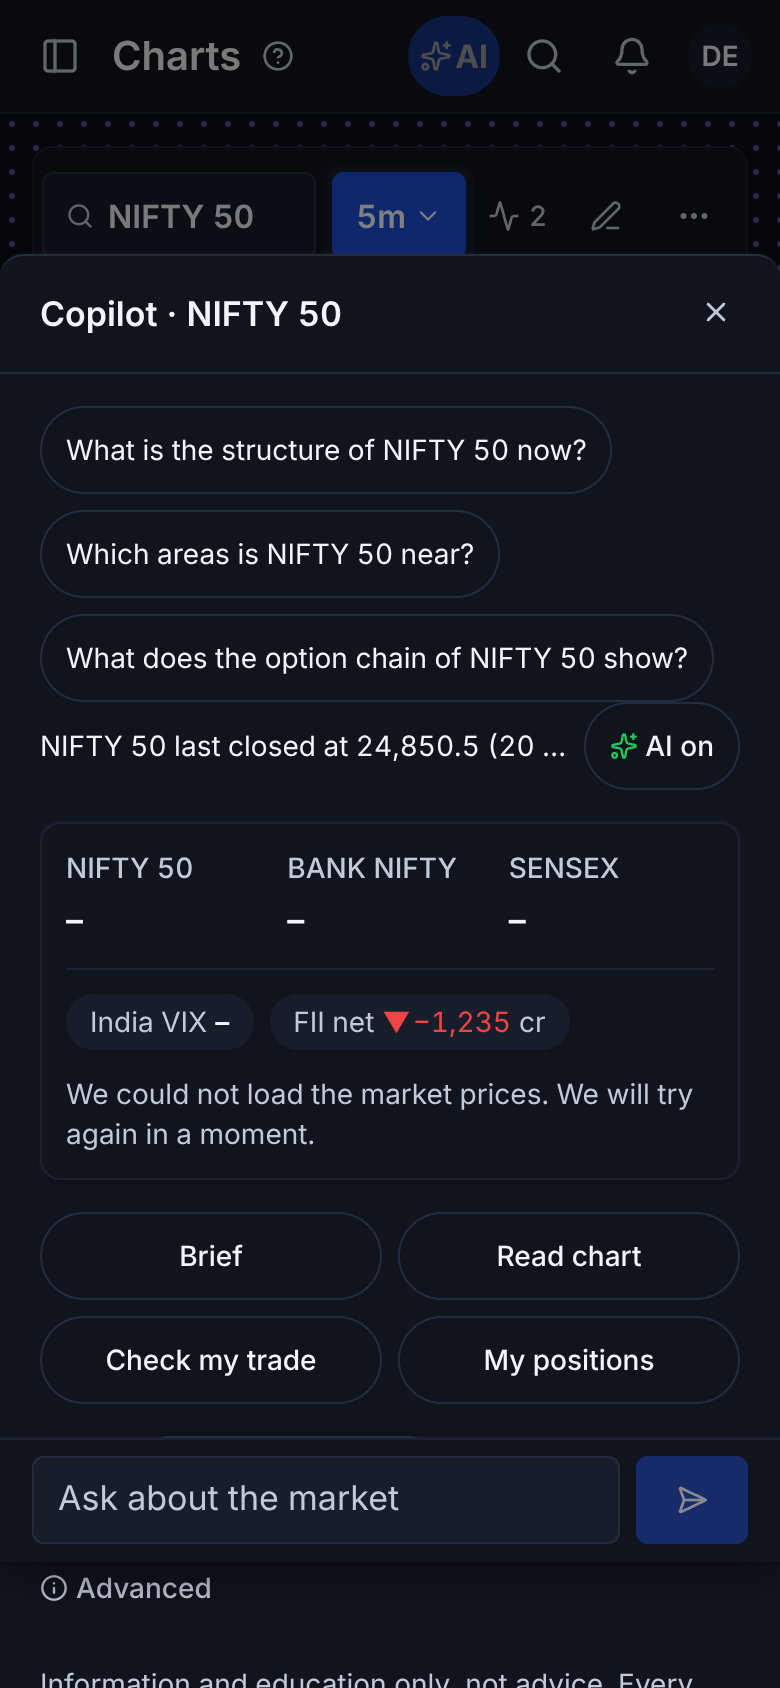
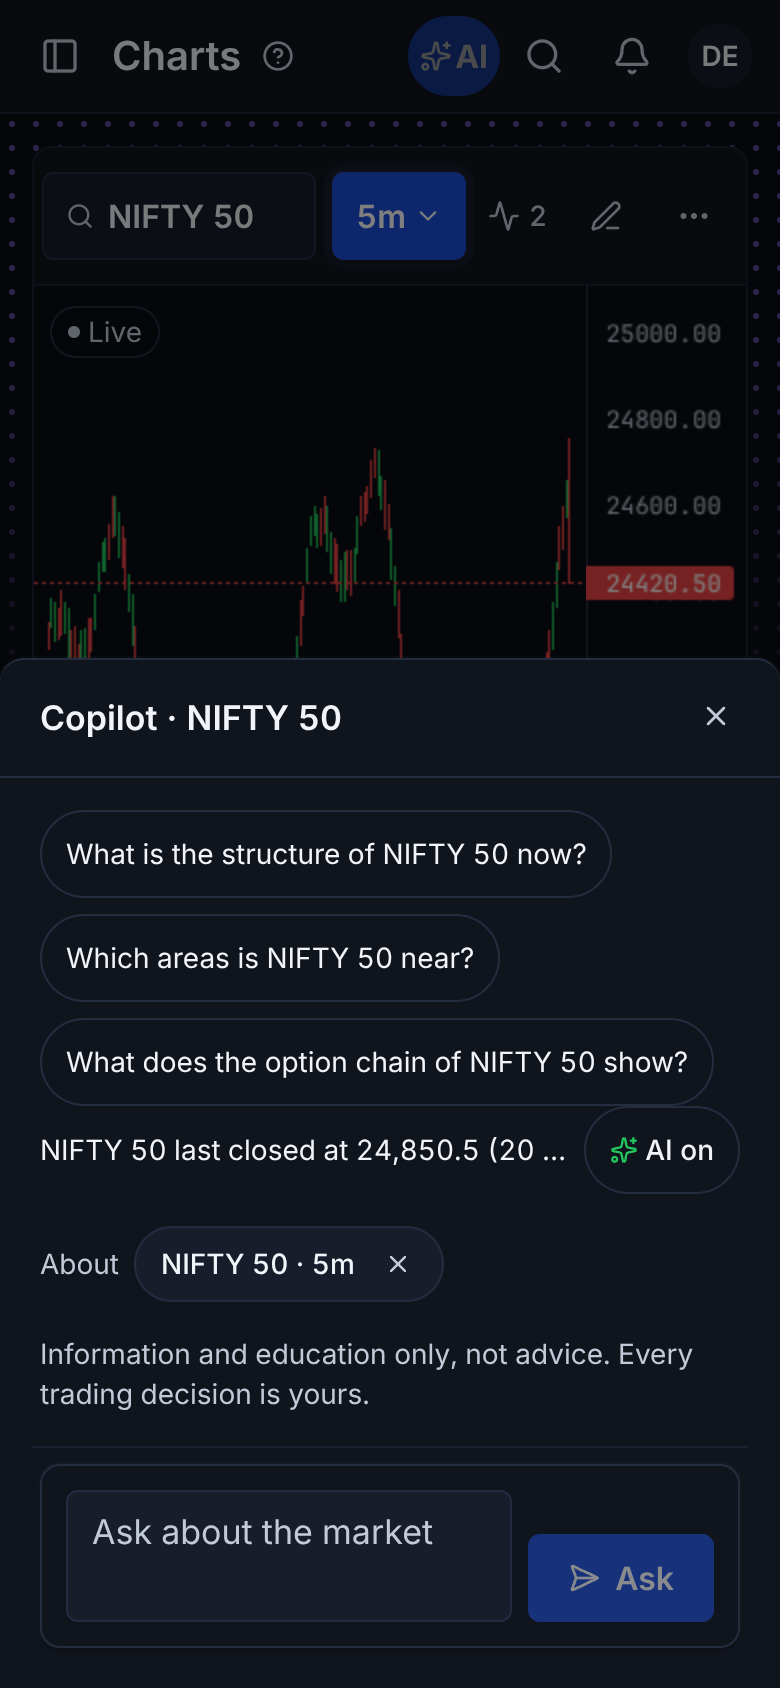
CH-1b (owner 5 Nov): indexed, copyable Copilot answers in a compact, professional chat
- Planner (analyst register): the text is organised in short sections, each opening with a '## <title>' heading
  (Summary first; only sections the tool results support).
- AnswerV2: an answer with 3+ section headings opens with its index (chips that jump to each section); RichText draws a
  section heading with a rule above it and an anchor; Copy copies the whole answer (headings kept, bold marks dropped)
  with its disclaimer.
- The chat bubble's chat is compact: the conversation and the ask box only (no numbers strip, job buttons, Advanced or
  page intro), the ask box kept at the foot of the sheet with the short placeholder.
- Tests: vitest answerIndex (2) + copilot / shell (431); e2e ch1-chat-bubble-v2 (index, 5 headings, Copy) at 390 and
  1440. Proof shots in CH1_PROOF.html. INBOX.

Claude-Session: https://claude.ai/code/session_0111ZseAMRvkKNzt3WVC9Lph

diff --git a/frontend/src/copilot/chat/CopilotChatV2.tsx b/frontend/src/copilot/chat/CopilotChatV2.tsx
@@ -80,6 +80,9 @@ export interface ChatViewProps {
   onAttach?: (source: ChartSource) => void;
   /** M72 PR-3 (CP-3): what the next question is about ("Ask AI about this"), with a way to drop it. */
   about?: ReactNode;
+  /** CH-1b: the chat bubble's compact chat - the conversation and the ask box only (no numbers strip, job buttons or
+   * Advanced), the ask box kept at the foot of the sheet. */
+  compact?: boolean;
 }
 
 export function Composer({ draft, busy, placement, onDraft, onAsk, placeholder, onAttach }: Pick<ChatViewProps, "draft" | "busy" | "placement" | "onDraft" | "onAsk" | "onAttach"> & { placeholder?: string }) {
@@ -161,14 +164,14 @@ export function NumbersStrip({ strip, home, nowMs }: { strip: Loadable<MarketStr
   );
 }
 
-export function ChatView({ home, homeError, turns, draft, busy, placement, onDraft, onAsk, strip = { status: "loading" }, connect, aiChip, keyOpen = false, onKeyOpen, onAttach, about }: ChatViewProps) {
+export function ChatView({ home, homeError, turns, draft, busy, placement, onDraft, onAsk, strip = { status: "loading" }, connect, aiChip, keyOpen = false, onKeyOpen, onAttach, about, compact = false }: ChatViewProps) {
   const t = useCopilotT();
   const line = marketLineText(home);
   const chips = home ? quickChips(home.jobs) : [];
   const empty = turns.length === 0;
   const aiOff = needsKey(home);
   const composer = <Composer draft={draft} busy={busy} placement={placement} onDraft={onDraft} onAsk={onAsk} onAttach={onAttach}
-    placeholder={placement === "bottom" ? t("chat.placeholderShort") : home?.top_line} />;
+    placeholder={placement === "bottom" || compact ? t("chat.placeholderShort") : home?.top_line} />;
   return (
     <div className="space-y-space-4" data-page="copilot-v2" data-placement={placement}>
       <header className="flex items-center justify-between gap-space-2">
@@ -203,9 +206,9 @@ export function ChatView({ home, homeError, turns, draft, busy, placement, onDra
 
       {aiOff && connect && keyOpen && <div data-connect-slot>{connect}</div>}
 
-      <NumbersStrip strip={strip} home={home} nowMs={Date.now()} />
+      {!compact && <NumbersStrip strip={strip} home={home} nowMs={Date.now()} />}
 
-      {chips.length > 0 && (
+      {!compact && chips.length > 0 && (
         <nav aria-label={t("chat.quick")} data-quick-chips data-tour="copilot-jobs" className="grid grid-cols-2 gap-space-2 sm:flex sm:flex-wrap">
           {chips.map((c) => (
             <button key={c.id} type="button" className={`${CHIP} justify-center font-medium sm:justify-start`} disabled={busy} onClick={() => onAsk(c.question)} data-quick={c.id}>
@@ -216,7 +219,7 @@ export function ChatView({ home, homeError, turns, draft, busy, placement, onDra
       )}
 
       {about}
-      {placement === "inline" && composer}
+      {placement === "inline" && !compact && composer}
 
       {!empty && (
         <ol className="space-y-space-4" aria-live="polite" data-conversation>
@@ -265,7 +268,7 @@ export function ChatView({ home, homeError, turns, draft, busy, placement, onDra
       )}
 
       {/* CU2: every job and the older Copilot pages fold under one closed "Advanced" (nothing removed; each still opens). */}
-      <div data-tour="copilot-more"><Details id="copilot.chat.advanced" label="Advanced">
+      {!compact && <div data-tour="copilot-more"><Details id="copilot.chat.advanced" label="Advanced">
         {home && (
           <section aria-labelledby="copilot-can-do" data-can-do>
             <h2 id="copilot-can-do" className="mb-space-1 font-semibold text-fg-muted">{t("chat.canDo")}</h2>
@@ -294,11 +297,13 @@ export function ChatView({ home, homeError, turns, draft, busy, placement, onDra
             ))}
           </ul>
         </nav>
-      </Details></div>
+      </Details></div>}
 
       <p className="text-t12 text-fg-muted" data-disclaimer>{home?.disclaimer ?? t("chat.disclaimer")}</p>
 
-      {placement === "bottom" && (
+      {compact ? (
+        <div className="sticky bottom-0 z-10 -mx-space-1 border-t border-subtle bg-surface-1 px-space-1 pb-space-1 pt-space-2" data-compact-composer>{composer}</div>
+      ) : placement === "bottom" && (
         <>
           <div aria-hidden className="h-20" />
           {composer}
@@ -343,7 +348,7 @@ export function AboutChip({ ctx, onClear }: { ctx: AskContext; onClear: () => vo
   );
 }
 
-export function CopilotChatV2({ context = null, starters = [] }: { context?: AskContext | null; starters?: readonly string[] }) {
+export function CopilotChatV2({ context = null, starters = [], compact = false }: { context?: AskContext | null; starters?: readonly string[]; compact?: boolean }) {
   const t = useCopilotT();
   // M72 PR-3 (F8): the context the page was opened with rides on every question until the user drops it
   const contextKey = JSON.stringify(context);
@@ -467,7 +472,7 @@ export function CopilotChatV2({ context = null, starters = [] }: { context?: Ask
 
   return (
     <>
-      <PageIntro id="copilot-chat" title={t("chat.introTitle")} lines={[t("chat.intro1"), t("chat.intro2")]} />
+      {!compact && <PageIntro id="copilot-chat" title={t("chat.introTitle")} lines={[t("chat.intro1"), t("chat.intro2")]} />}
       {/* CH-1: the chat bubble's ready questions about the page's symbol, until the first question is asked */}
       {starters.length > 0 && turns.length === 0 && (
         <div className="flex flex-wrap gap-space-2" data-chat-starters>
@@ -477,7 +482,7 @@ export function CopilotChatV2({ context = null, starters = [] }: { context?: Ask
           ))}
         </div>
       )}
-      <ChatView home={home} homeError={homeError} turns={turns} draft={draft} busy={busy} placement={placement} onDraft={setDraft} onAsk={(q) => void ask(q)}
+      <ChatView home={home} homeError={homeError} turns={turns} draft={draft} busy={busy} placement={compact ? "inline" : placement} compact={compact} onDraft={setDraft} onAsk={(q) => void ask(q)}
         strip={strip} keyOpen={keyOpen} onKeyOpen={setKeyOpen} onAttach={canAttach ? (source) => void attachChart(source) : undefined}
         connect={oneKey ? <ConnectAiPanelV2 /> : undefined} aiChip={aiLabel ? <ConnectAiChip label={aiLabel} /> : undefined}
         about={about ? <AboutChip ctx={about} onClear={() => setAbout(null)} /> : undefined} />
@@ -491,9 +496,9 @@ function Waiting() {
   return <p className="text-t20 font-semibold text-fg md:text-t24">{t("chat.topLine")}</p>;
 }
 
-export default function CopilotChatGate({ context = null, starters = [] }: { context?: AskContext | null; starters?: readonly string[] }) {
+export default function CopilotChatGate({ context = null, starters = [], compact = false }: { context?: AskContext | null; starters?: readonly string[]; compact?: boolean }) {
   const t = useCopilotT();
   const { user } = useAuth();
   if (!user) return <p className="text-t14 text-fg-muted">{t("shell.signIn")}</p>;
-  return <FirstUseModal placeholder={<Waiting />}><CopilotChatV2 context={context} starters={starters} /></FirstUseModal>;
+  return <FirstUseModal placeholder={<Waiting />}><CopilotChatV2 context={context} starters={starters} compact={compact} /></FirstUseModal>;
 }

diff --git a/frontend/src/copilot/chat/AnswerV2.tsx b/frontend/src/copilot/chat/AnswerV2.tsx
@@ -1,5 +1,5 @@
-import { CircleHelp, History, LineChart, ListChecks, Sparkles } from "lucide-react";
-import { lazy, Suspense } from "react";
+import { Check, CircleHelp, Copy, History, LineChart, ListChecks, Sparkles } from "lucide-react";
+import { lazy, Suspense, useId, useState } from "react";
 import { InPlaceLink } from "../../inplace/InPlaceLink";
 import { chartTabPath } from "../../shell/shellRoutes";
 import { isTimeframe } from "../../chart/timeframes";
@@ -13,7 +13,7 @@ import {
   type AnswerBlock, type AnswerChip, type AnswerHeadline, type ChatAnswer,
 } from "./model";
 import CostChip from "../components/CostChip";
-import { RichText } from "./RichText";
+import { RichText, headingId } from "./RichText";
 import { DraftCardsV2 } from "./DraftCardV2";
 import { StructureCardV2 } from "./StructureCardV2";
 
@@ -132,8 +132,43 @@ export function HeadlineRow({ h }: { h: AnswerHeadline }) {
  * refusal shows its plain sentence and what to ask instead. Every word and number comes from the server; the page
  * footer carries the one disclaimer (`disclaimer` shows the answer's own line where the card stands alone).
  */
+/** CH-1b: the "## " section headings of an answer's text, in order (its index). */
+export function answerIndex(lines: readonly string[]): string[] {
+  const out: string[] = [];
+  for (const line of lines) {
+    for (const row of line.split("\n")) {
+      const m = /^\s*#{1,3}\s+(.+?)\s*$/.exec(row);
+      if (m) out.push(m[1].replace(/\*\*/g, ""));
+    }
+  }
+  return out;
+}
+
+/** CH-1b: the answer as plain text for Copy - its lines (headings kept as "## "), then the disclaimer. */
+export function answerPlainText(answer: Pick<ChatAnswer, "summary" | "disclaimer">): string {
+  const body = answer.summary.map((l) => l.replace(/\*\*/g, "").trim()).filter(Boolean).join("\n\n");
+  return answer.disclaimer ? `${body}\n\n${answer.disclaimer}` : body;
+}
+
+function CopyAnswer({ text }: { text: string }) {
+  const [done, setDone] = useState<boolean | null>(null);
+  const copy = () => {
+    const clip = typeof navigator !== "undefined" ? navigator.clipboard : undefined;
+    if (!clip) { setDone(false); return; }
+    clip.writeText(text).then(() => setDone(true), () => setDone(false));
+  };
+  return (
+    <button type="button" onClick={copy} data-copy-answer aria-label="Copy this answer"
+      className="inline-flex min-h-11 items-center gap-space-1 rounded-pill border border-border px-space-3 text-t13 font-medium text-fg hover:bg-surface-2 focus-visible:outline-none focus-visible:ring-2 focus-visible:ring-brand md:min-h-9">
+      {done ? <Check size={14} aria-hidden /> : <Copy size={14} aria-hidden />}
+      {done ? "Copied" : done === false ? "Copy not allowed here" : "Copy"}
+    </button>
+  );
+}
+
 export function AnswerV2({ answer, onAsk, disclaimer = true }: { answer: ChatAnswer; onAsk?: (q: string) => void; disclaimer?: boolean }) {
   const t = useCopilotT();
+  const anchor = `ans${useId().replace(/[^a-zA-Z0-9]/g, "")}`;
   const used = toolsUsedLine(answer);
   const adminNotSetUp = notSetUpLine(answer);
   const parts = answerParts(answer);
@@ -150,9 +185,18 @@ export function AnswerV2({ answer, onAsk, disclaimer = true }: { answer: ChatAns
       {card && answer.headline_line && <p className="text-t15 font-semibold text-fg" data-headline-line>{answer.headline_line}</p>}
       {card ? <StructureCardV2 card={card} /> : (
         <div className="space-y-space-1" data-summary>
+          {(() => {
+            // CH-1b: an answer written in sections opens with its index (jump to a section)
+            const index = answerIndex(answer.summary);
+            return index.length >= 3 ? (
+              <nav aria-label="Sections of this answer" data-answer-index className="mb-space-2 flex flex-wrap gap-space-2">
+                {index.map((h) => <a key={h} href={`#${headingId(anchor, h)}`} className={CHIP_ACTION}>{h}</a>)}
+              </nav>
+            ) : null;
+          })()}
           {answer.summary.map((line, i) => i === 0 && answer.headline_line
             ? <p key={i} className="text-t15 font-semibold text-fg" data-headline-line>{line}</p>
-            : <RichText key={i} source={line} />)}
+            : <RichText key={i} source={line} anchorPrefix={anchor} />)}
         </div>
       )}
       {chart && (
@@ -259,6 +303,8 @@ export function AnswerV2({ answer, onAsk, disclaimer = true }: { answer: ChatAns
         </Details>
       )}
       {disclaimer && <p className="text-t12 text-fg-muted" data-disclaimer>{answer.disclaimer}</p>}
+      {/* CH-1b: copy the whole answer (its text and disclaimer) */}
+      {answer.summary.length > 0 && <div className="flex justify-end"><CopyAnswer text={answerPlainText(answer)} /></div>}
     </article>
   );
 }

diff --git a/frontend/e2e/ch1-chat-bubble-v2.e2e.ts b/frontend/e2e/ch1-chat-bubble-v2.e2e.ts
@@ -9,7 +9,15 @@ import { expectPhoneLayout } from "./phoneLayout";
  * sheet, with the page's symbol and three ready questions. Mocked API only. CH1_SHOTS=<dir> writes the proof shots.
  */
 const SHOTS = process.env.CH1_SHOTS;
-const CHAT = JSON.parse(readFileSync(new URL("./fixtures/copilot_chat_v2.json", import.meta.url), "utf8")) as { home: Record<string, unknown> };
+const CHAT = JSON.parse(readFileSync(new URL("./fixtures/copilot_chat_v2.json", import.meta.url), "utf8")) as { home: Record<string, unknown>; answers: Record<string, Record<string, unknown>> };
+/** CH-1b: a made-up planner answer written in sections (the analyst register) - index, headings and Copy. */
+const SECTIONED = { ...Object.values(CHAT.answers)[0], structure_card: null, headline: null, headline_line: null, summary: [
+  "Made-up: NIFTY 50 in an up structure, pullback running toward demand.",
+  "## Summary\nUp structure; price pulled back from the swing high and is near the demand area.",
+  "## Structure\n- Swing high (HH) 24,260\n- Higher low (HL) 23,980 - the protected low",
+  "## Areas\n- **Demand** 23,860 - 23,900 (fresh)\n- **Supply** 24,300 - 24,340 (tested)",
+  "## Option chain\n- Highest put OI build-up at 23,900; calls at 24,300",
+  "## What to watch\nA close below 23,980 changes the structure; a commitment candle at demand keeps it."] };
 const CONNECTED = [{ broker: "upstox", account_label: "primary", name: "Upstox", status: "connected", message: "", data_only: true, renew: false }];
 
 async function open(page: Page, flags: Record<string, boolean>, asked: string[] = []) {
@@ -30,7 +38,7 @@ async function open(page: Page, flags: Record<string, boolean>, asked: string[] 
       return route.fulfill({ json: { ...CHAT.home, ai: { ready: true, title: null, line: null, settings: "/settings/ai", reason: null, code: null, own_key: false } } });
     }
     asked.push(route.request().postData() ?? "");
-    return route.fulfill({ status: 503, json: { detail: "made-up stop after the question" } });
+    return route.fulfill({ json: SECTIONED });
   });
   await page.goto("/charts");
   await expect(page.locator("[data-page='charts-v2'] .tv-lightweight-charts canvas").first()).toBeVisible();
@@ -60,6 +68,12 @@ for (const size of [{ width: 390, height: 844, phone: true }, { width: 1440, hei
       await expect.poll(() => asked.length).toBe(1);
       expect(asked[0]).toContain("What is the structure of NIFTY 50 now?");
       expect(asked[0]).toContain('"symbol":"NIFTY 50"');
+      // CH-1b: the answer opens with its index, each section has its heading, and Copy is there
+      const index = sheet.locator("[data-answer-index] a");
+      await expect(index).toHaveText(["Summary", "Structure", "Areas", "Option chain", "What to watch"]);
+      await expect(sheet.locator("[data-answer-heading]")).toHaveCount(5);
+      await expect(sheet.locator("[data-copy-answer]")).toBeVisible();
+      if (SHOTS) await page.screenshot({ path: `${SHOTS}/ch1b-answer-${size.width}-dark.png` });
     });
 
     test("no bubble while ai_copilot is off", async ({ page }) => {

diff --git a/frontend/src/copilot/chat/RichText.tsx b/frontend/src/copilot/chat/RichText.tsx
@@ -20,13 +20,20 @@ function Inline({ text }: { text: string }) {
   })}</>;
 }
 
-export function RichText({ source, className = "text-t15 text-fg" }: { source: string; className?: string }) {
+/** CH-1b: a heading's anchor id inside one answer (`prefix` keeps two answers' ids apart). */
+export function headingId(prefix: string, text: string): string {
+  return `${prefix}-${text.toLowerCase().replace(/[^a-z0-9]+/g, "-").replace(/^-|-$/g, "")}`;
+}
+
+export function RichText({ source, className = "text-t15 text-fg", anchorPrefix }: { source: string; className?: string; anchorPrefix?: string }) {
   return (
     <div className="space-y-space-1" data-rich-text>
       {parseBlocks(source.replace(/^(\s*)\*\s+/gm, "$1- ")).map((b, i) => {
         switch (b.kind) {
           case "heading":
-            return <p key={i} className={`${className} font-semibold`}><Inline text={b.text} /></p>;
+            // CH-1b: a section heading of an indexed answer - a clear break above it and an anchor for the answer's index
+            return <p key={i} id={anchorPrefix ? headingId(anchorPrefix, b.text) : undefined} data-answer-heading
+              className={`${className} mt-space-3 border-t border-subtle pt-space-2 font-semibold first:mt-0 first:border-t-0 first:pt-0`}><Inline text={b.text} /></p>;
           case "list":
             return (
               <ul key={i} className={`${className} list-disc space-y-space-1 pl-space-5`}>

diff --git a/frontend/src/copilot/chat/answerIndex.test.tsx b/frontend/src/copilot/chat/answerIndex.test.tsx
@@ -1,0 +1,19 @@
+import { describe, expect, it } from "vitest";
+import { answerIndex, answerPlainText } from "./AnswerV2";
+import { headingId } from "./RichText";
+
+describe("CH-1b an indexed, copyable answer", () => {
+  const lines = ["NIFTY 50 is in an up structure.", "## Summary\nUp structure, pullback running.", "## Structure\n- HH 24,260\n- HL 23,980",
+    "## Areas\n- **Demand** 23,860 - 23,900", "## What to watch\nA close below 23,980."];
+  it("the index lists the section headings in order", () => {
+    expect(answerIndex(lines)).toEqual(["Summary", "Structure", "Areas", "What to watch"]);
+    expect(answerIndex(["one line only"])).toEqual([]);
+    expect(headingId("ans1", "What to watch")).toBe("ans1-what-to-watch");
+  });
+  it("Copy gives the answer's text without bold marks, then the disclaimer", () => {
+    const text = answerPlainText({ summary: lines, disclaimer: "Information and education only, not advice." });
+    expect(text).toContain("## Areas\n- Demand 23,860 - 23,900");
+    expect(text).not.toContain("**");
+    expect(text.endsWith("Information and education only, not advice.")).toBe(true);
+  });
+});

diff --git a/docs/design/CH1_PROOF.html b/docs/design/CH1_PROOF.html
@@ -22,5 +22,11 @@ figcaption{font-weight:600;margin-bottom:6px}img{width:100%;height:auto;border-r
 <figure><figcaption>The button</figcaption><img src="ch1/ch1-bubble-1440-dark.png" alt="bubble 1440"></figure>
 <figure><figcaption>Opened at the side</figcaption><img src="ch1/ch1-sheet-1440-dark.png" alt="sheet 1440"></figure>
 </div>
+<h2>CH-1b: an indexed, copyable answer in a compact chat</h2>
+<p>The bubble's chat shows only the conversation and the ask box (no numbers strip, job buttons or Advanced); an answer written in sections opens with its index (tap to jump), each section has its heading, and Copy copies the whole answer with its disclaimer.</p>
+<div class="row">
+<figure><figcaption>Phone 390</figcaption><img src="ch1/ch1b-answer-390-dark.png" alt="answer 390"></figure>
+<figure><figcaption>Desktop 1440</figcaption><img src="ch1/ch1b-answer-1440-dark.png" alt="answer 1440"></figure>
+</div>
 <p>Settings &gt; AI: "The Copilot answers in" adds "Same as my question" (default); "The Copilot writes like": Market analyst (default) / Simple words.</p>
 </body></html>

diff --git a/frontend/src/shell/ChatBubbleV2.tsx b/frontend/src/shell/ChatBubbleV2.tsx
@@ -44,7 +44,7 @@ export default function ChatBubbleV2({ on, signedIn, section }: { on: (flag: str
         <div data-chat-sheet className="min-h-0">
           {open && (
             <Suspense fallback={<Skeleton className="h-40" panel label="Loading" />}>
-              <CopilotChat context={context} starters={starterQuestions(symbol)} />
+              <CopilotChat context={context} starters={starterQuestions(symbol)} compact />
             </Suspense>
           )}
         </div>

diff --git a/backend/app/ai/languages.py b/backend/app/ai/languages.py
@@ -47,7 +47,9 @@ TONES = ("analyst", "plain")
 _PLAIN = "5. Keep the answer short and plain."
 _ANALYST = ("5. Write like an experienced market analyst: the key numbers first, then short points, using market terms "
             "precisely (trend, structure, swing high / low, demand / supply area, momentum, volume, open interest build-up, "
-            "implied volatility). Describe; never advise.")
+            "implied volatility). Describe; never advise. Organise the text into short sections, each opening with a "
+            "Markdown heading line '## <title>' (for example Summary, Structure, Areas, Option chain, Scenarios, What to "
+            "watch) - only the sections the tool results support, Summary first.")
 
 
 def resolve(lang: str, question: str) -> str:

diff --git a/docs/owner-orders/INBOX.md b/docs/owner-orders/INBOX.md
@@ -313,3 +313,4 @@ file / DECISIONS.md / the README status). Keep the newest at the bottom.
 | 2026-11-05 | "Advance Analysis chya pudhe bracket madhe fakt code lihilela aahe ... AI+Code ase karta yeil" then "Mala he asa nako, tyachyamadhe AI ani code ya donhi goshti chalayla pahije, tyalach apan advance analysis mhanu ... code purna rekhatil, purna plan karel ... tyacha study denar, asa sampurna analysis jevha hoil tevhach tyala apan advance analysis mhanu" (owner wrote it in Devanagari) | ADV-3: the private provider's hybrid entry point (atp-private #17) - code reads and draws, the AI writes the study on ATP's reading; label "Advanced analysis (code + AI)" when both run |
 | 2026-11-05 | "Mala ase vatate jya tarhene apan prastav kakshamadhe chat box tayar kelela aahe tyach dhartivar apalya ya ATP madhe suddha chat box asayla pahije; user ekhadya stock baddal, index baddal charcha karu shakte; ekdam arthik bhasha vaparnara chatbot apan tayar karu shakto" then "Default yes" (owner wrote it in Devanagari) | CH-1: the Copilot chat on every page (a round button, the same chat, the page's symbol, three ready questions); the analyst register by default; answers in the question's own language ("auto", under copilot_languages) |
 | 2026-11-05 | "Advance Analysis chya pudhe bracket madhe fakt code lihilela aahe ... AI+Code ase karta yeil" then "Mala he asa nako, tyachyamadhe AI ani code ya donhi goshti chalayla pahije, tyalach apan advance analysis mhanu ... code purna rekhatil, purna plan karel ... tyacha study denar, asa sampurna analysis jevha hoil tevhach tyala apan advance analysis mhanu" (owner wrote it in Devanagari) | ADV-3: the private provider's hybrid entry point (atp-private #17) - code reads and draws, the AI writes the study on ATP's reading; label "Advanced analysis (code + AI)" when both run |
+| 2026-11-05 | "Analysis matra index asayla pahije, chat box madhe tyachi mandani vyavasthit asli pahije, to response copy-paste karta ala pahije, mhanje jasha paddhatine ithe Claude madhe chat sessions astat tya dhartivar tithe sarva facility asayla pahije, ekdam highly professional chat box tayar karayacha aahe" (owner wrote it in Devanagari) | CH-1b: indexed answers (sections with headings, an index to jump), Copy on every answer, a compact professional chat in the bubble; chat sessions (several conversations, new chat, list) need a table change - asked first |
